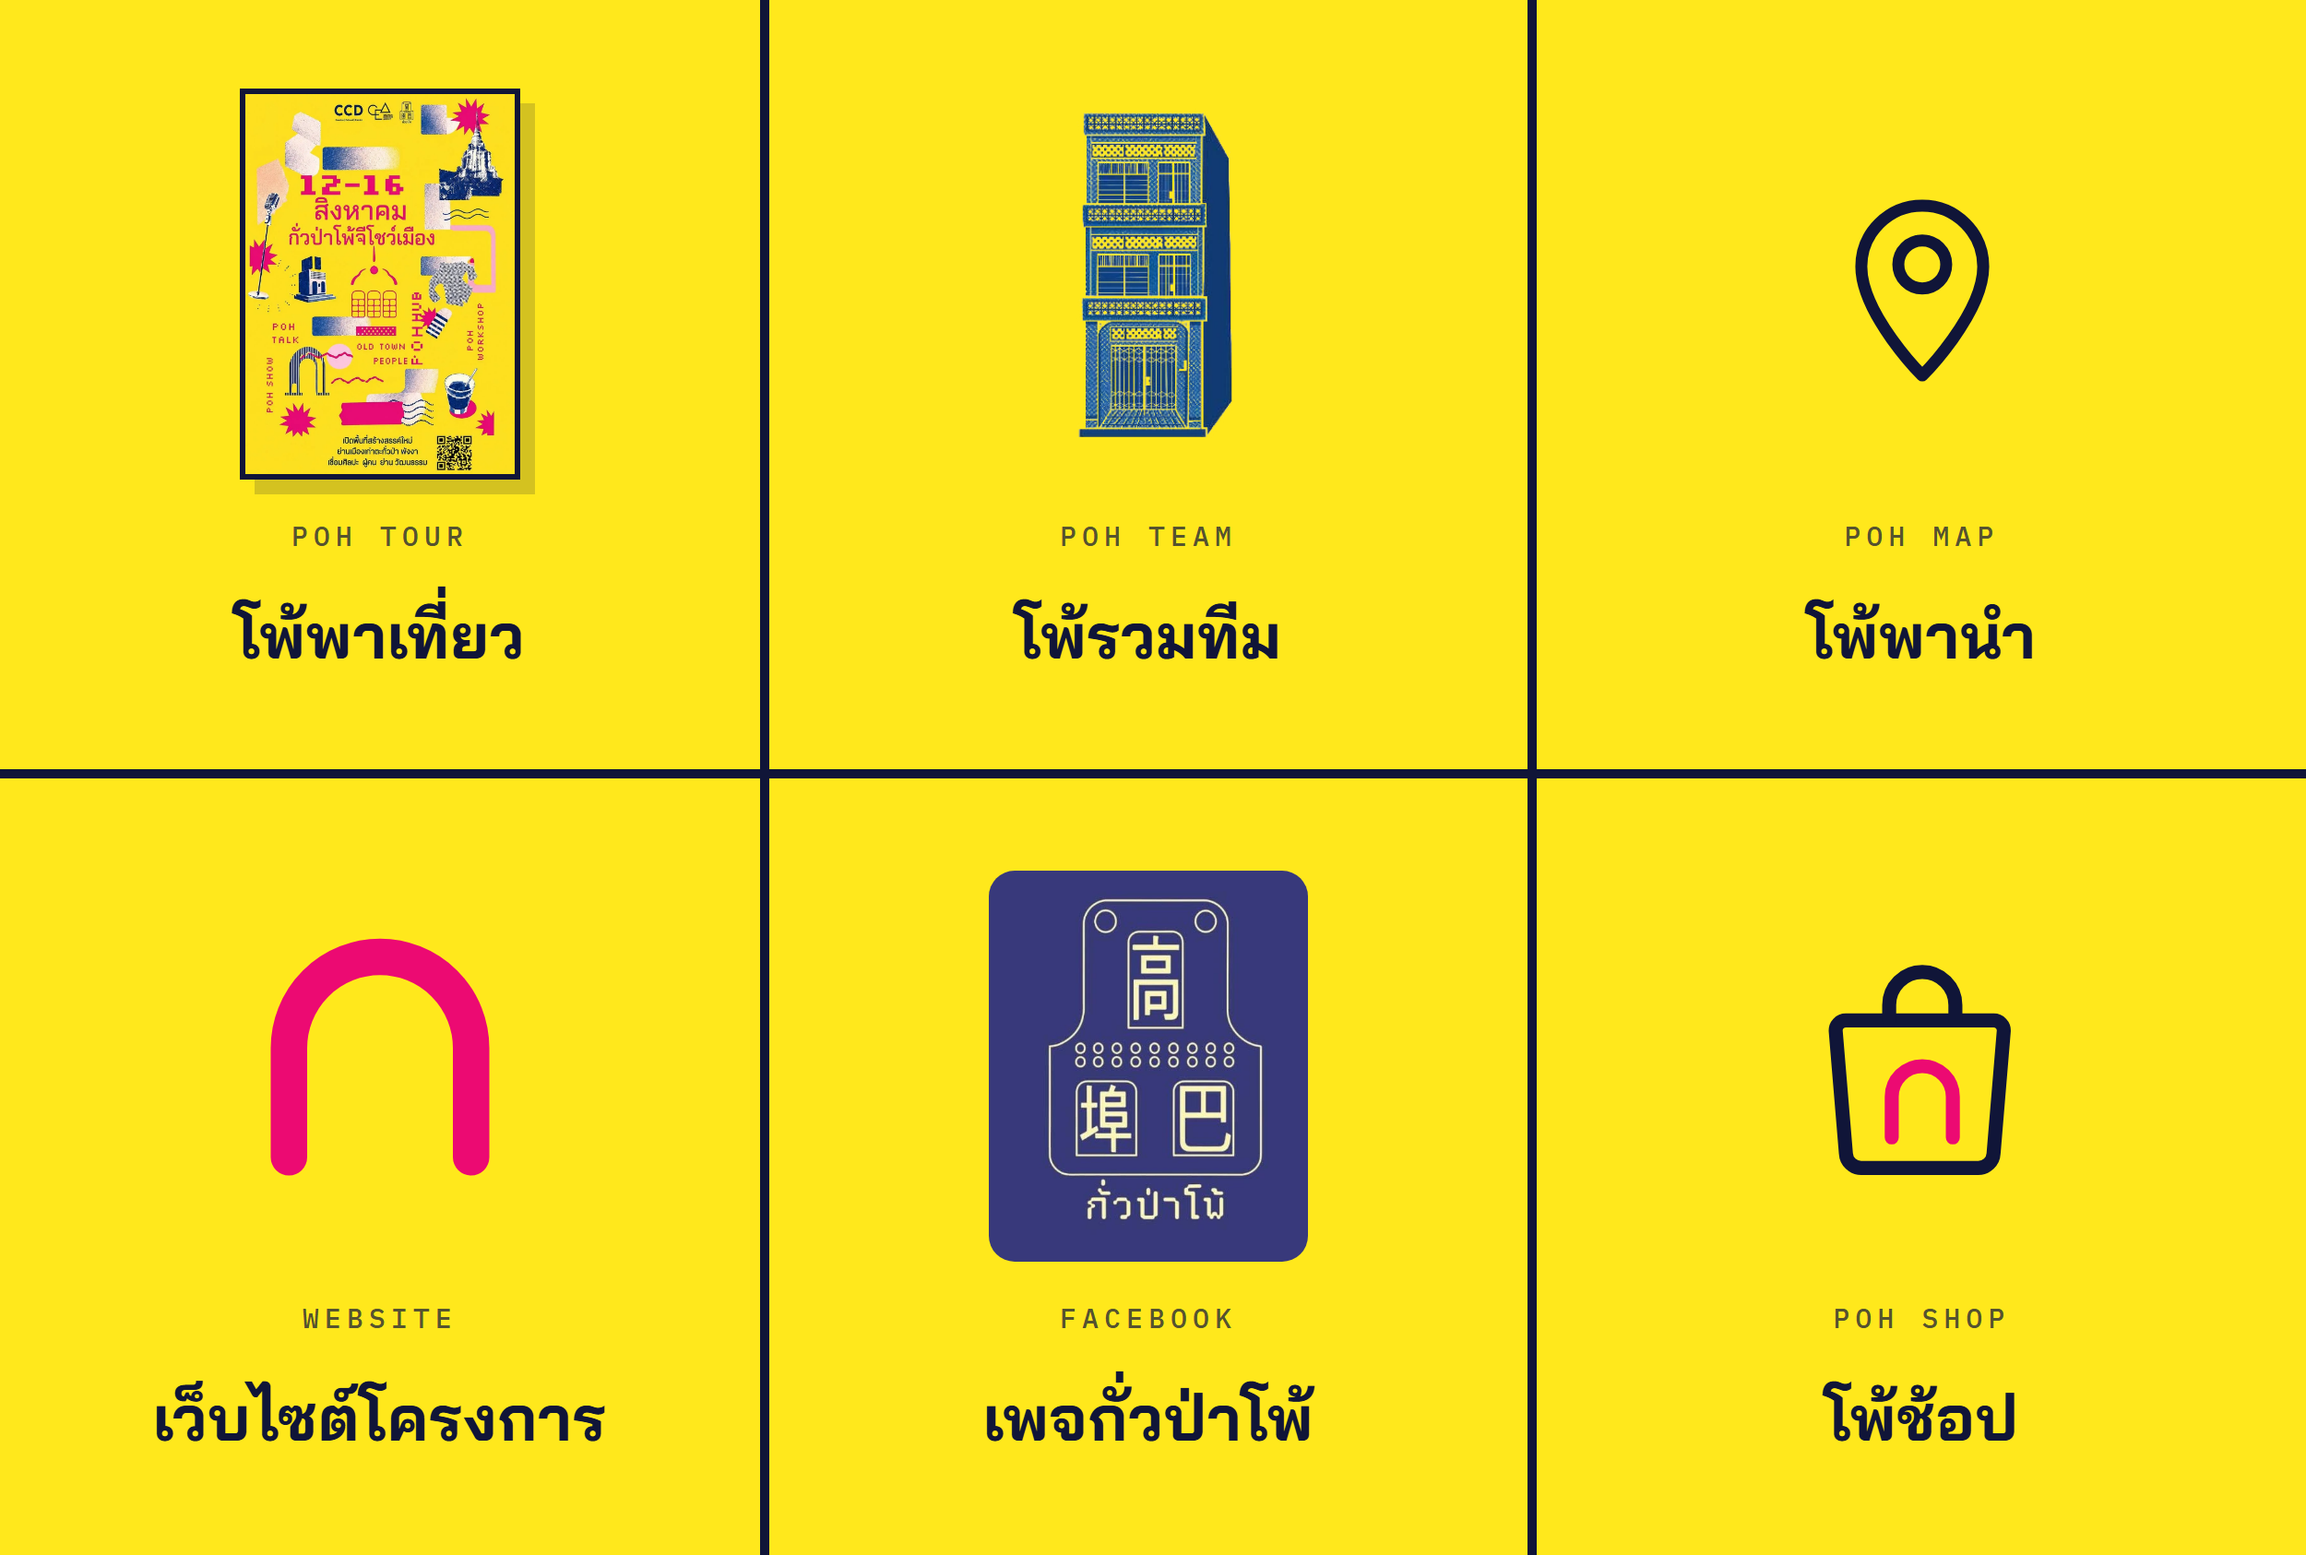
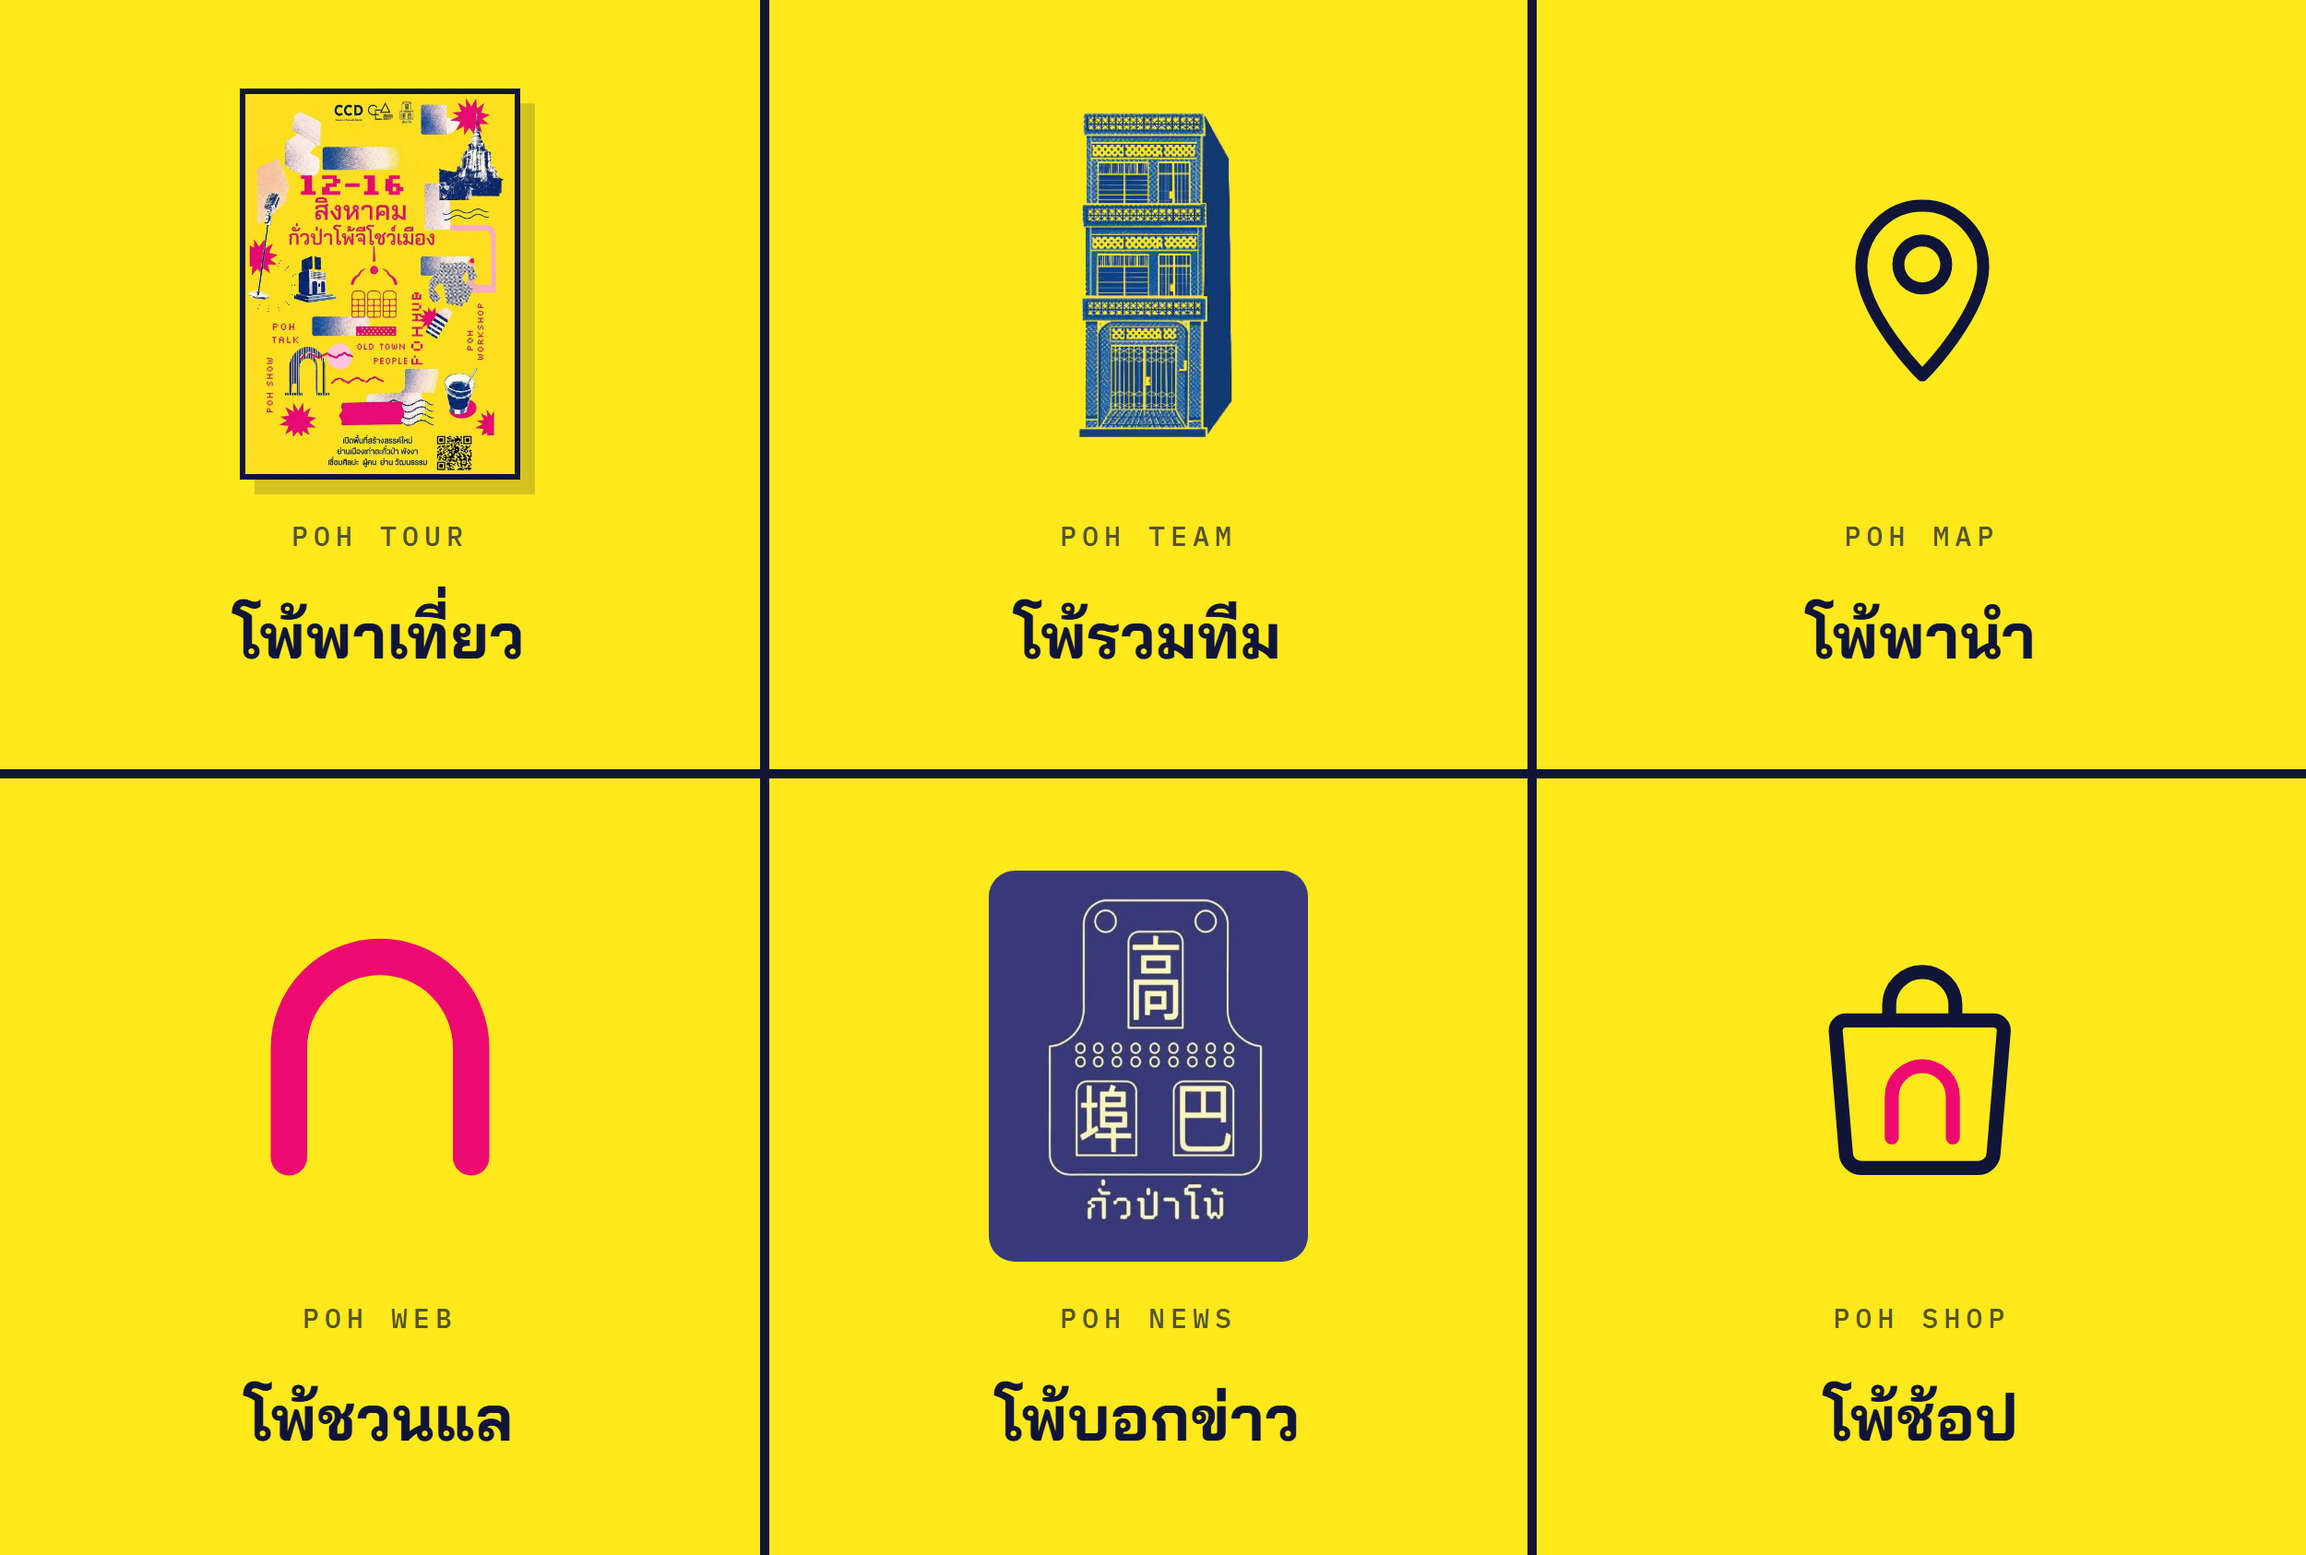
feat(contact): เพิ่มช่องทางไลน์ในส่วนติดต่อ + sameAs · ริชเมนูตั้งชื่อชุด โพ้ ครบ 6 ช่อง

diff --git a/richmenu/a-poster.html b/richmenu/a-poster.html
@@ -13,7 +13,7 @@
 <div class="cell" style="background:#FFE81C;color:#101538"><div class="art"><img class="poster" src="../images/poster-main.webp" alt=""></div><div><div class="en">POH TOUR</div><div class="th">โพ้พาเที่ยว</div></div></div>
 <div class="cell" style="background:#FFE81C;color:#101538"><div class="art"><img class="art-line" src="../images/line-78.webp" alt=""></div><div><div class="en">POH TEAM</div><div class="th">โพ้รวมทีม</div></div></div>
 <div class="cell" style="background:#FFE81C;color:#101538"><div class="art"><div class="ico"><svg viewBox="0 0 100 100"><path d="M50 92C50 92 78 64 78 42a28 28 0 1 0-56 0c0 22 28 50 28 50z" stroke="currentColor" fill="none" stroke-width="5.5" stroke-linecap="round" stroke-linejoin="round"/><circle cx="50" cy="41" r="11" stroke="currentColor" fill="none" stroke-width="5.5" stroke-linecap="round" stroke-linejoin="round"/></svg></div></div><div><div class="en">POH MAP</div><div class="th">โพ้พานำ</div></div></div>
-<div class="cell" style="background:#FFE81C;color:#101538"><div class="art"><div class="ico ico-mark"><svg viewBox="0 0 32 32"><path d="M6 26V14a10 10 0 0 1 20 0v12" fill="none" stroke="#EC0A72" stroke-width="4" stroke-linecap="round"/></svg></div></div><div><div class="en">WEBSITE</div><div class="th">เว็บไซต์โครงการ</div></div></div>
-<div class="cell" style="background:#FFE81C;color:#101538"><div class="art"><img class="art-tile" src="logo-poh.webp" alt=""></div><div><div class="en">FACEBOOK</div><div class="th">เพจกั่วป่าโพ้</div></div></div>
+<div class="cell" style="background:#FFE81C;color:#101538"><div class="art"><div class="ico ico-mark"><svg viewBox="0 0 32 32"><path d="M6 26V14a10 10 0 0 1 20 0v12" fill="none" stroke="#EC0A72" stroke-width="4" stroke-linecap="round"/></svg></div></div><div><div class="en">POH WEB</div><div class="th">โพ้ชวนแล</div></div></div>
+<div class="cell" style="background:#FFE81C;color:#101538"><div class="art"><img class="art-tile" src="logo-poh.webp" alt=""></div><div><div class="en">POH NEWS</div><div class="th">โพ้บอกข่าว</div></div></div>
 <div class="cell" style="background:#FFE81C;color:#101538"><div class="art"><div class="ico ico-shop"><svg viewBox="0 0 100 100"><path d="M22 32h56a4 4 0 0 1 4 4.3l-4 48a6 6 0 0 1-6 5.7H26a6 6 0 0 1-6-5.7l-4-48a4 4 0 0 1 4-4.3z" fill="none" stroke="currentColor" stroke-width="5.5" stroke-linejoin="round"/><path d="M37 32v-6a13 13 0 0 1 26 0v6" fill="none" stroke="currentColor" stroke-width="5.5" stroke-linecap="round"/><path d="M38 78V62a12 12 0 0 1 24 0v16" fill="none" stroke="#EC0A72" stroke-width="5.5" stroke-linecap="round"/></svg></div></div><div><div class="en">POH SHOP</div><div class="th">โพ้ช้อป</div></div></div>
 </body></html>

diff --git a/richmenu/b-blocks.html b/richmenu/b-blocks.html
@@ -10,7 +10,7 @@
 <div class="cell" style="background:#EC0A72;color:#FBF7EC"><div class="art"><img class="poster" src="../images/poster-main.webp" alt=""></div><div><div class="en">POH TOUR</div><div class="th">โพ้พาเที่ยว</div></div></div>
 <div class="cell" style="background:#FFE81C;color:#101538"><div class="art"><img class="art-line" src="../images/line-78.webp" alt=""></div><div><div class="en">POH TEAM</div><div class="th">โพ้รวมทีม</div></div></div>
 <div class="cell" style="background:#1E3FA8;color:#FBF7EC"><div class="art"><div class="ico"><svg viewBox="0 0 100 100"><path d="M50 92C50 92 78 64 78 42a28 28 0 1 0-56 0c0 22 28 50 28 50z" stroke="currentColor" fill="none" stroke-width="5.5" stroke-linecap="round" stroke-linejoin="round"/><circle cx="50" cy="41" r="11" stroke="currentColor" fill="none" stroke-width="5.5" stroke-linecap="round" stroke-linejoin="round"/></svg></div></div><div><div class="en">POH MAP</div><div class="th">โพ้พานำ</div></div></div>
-<div class="cell" style="background:#FBF7EC;color:#101538"><div class="art"><div class="ico ico-mark"><svg viewBox="0 0 32 32"><path d="M6 26V14a10 10 0 0 1 20 0v12" fill="none" stroke="#EC0A72" stroke-width="4" stroke-linecap="round"/></svg></div></div><div><div class="en">WEBSITE</div><div class="th">เว็บไซต์โครงการ</div></div></div>
-<div class="cell" style="background:#F4331F;color:#FBF7EC"><div class="art"><img class="art-tile" src="logo-poh.webp" alt=""></div><div><div class="en">FACEBOOK</div><div class="th">เพจกั่วป่าโพ้</div></div></div>
+<div class="cell" style="background:#FBF7EC;color:#101538"><div class="art"><div class="ico ico-mark"><svg viewBox="0 0 32 32"><path d="M6 26V14a10 10 0 0 1 20 0v12" fill="none" stroke="#EC0A72" stroke-width="4" stroke-linecap="round"/></svg></div></div><div><div class="en">POH WEB</div><div class="th">โพ้ชวนแล</div></div></div>
+<div class="cell" style="background:#F4331F;color:#FBF7EC"><div class="art"><img class="art-tile" src="logo-poh.webp" alt=""></div><div><div class="en">POH NEWS</div><div class="th">โพ้บอกข่าว</div></div></div>
 <div class="cell" style="background:#101538;color:#FFE81C"><div class="art"><div class="ico ico-shop"><svg viewBox="0 0 100 100"><path d="M22 32h56a4 4 0 0 1 4 4.3l-4 48a6 6 0 0 1-6 5.7H26a6 6 0 0 1-6-5.7l-4-48a4 4 0 0 1 4-4.3z" fill="none" stroke="currentColor" stroke-width="5.5" stroke-linejoin="round"/><path d="M37 32v-6a13 13 0 0 1 26 0v6" fill="none" stroke="currentColor" stroke-width="5.5" stroke-linecap="round"/><path d="M38 78V62a12 12 0 0 1 24 0v16" fill="none" stroke="#EC0A72" stroke-width="5.5" stroke-linecap="round"/></svg></div></div><div><div class="en">POH SHOP</div><div class="th">โพ้ช้อป</div></div></div>
 </body></html>

diff --git a/richmenu/c-paper.html b/richmenu/c-paper.html
@@ -19,7 +19,7 @@
 <div class="cell" style="background:#FBF7EC;color:#101538"><div class="art"><img class="poster" src="../images/poster-main.webp" alt=""></div><div><div class="en">POH TOUR</div><div class="th">โพ้พาเที่ยว</div></div></div>
 <div class="cell" style="background:#FBF7EC;color:#101538"><div class="art"><img class="art-line" src="../images/line-78.webp" alt=""></div><div><div class="en">POH TEAM</div><div class="th">โพ้รวมทีม</div></div></div>
 <div class="cell" style="background:#FBF7EC;color:#101538"><div class="art"><div class="ico"><svg viewBox="0 0 100 100"><path d="M50 92C50 92 78 64 78 42a28 28 0 1 0-56 0c0 22 28 50 28 50z" stroke="currentColor" fill="none" stroke-width="5.5" stroke-linecap="round" stroke-linejoin="round"/><circle cx="50" cy="41" r="11" stroke="currentColor" fill="none" stroke-width="5.5" stroke-linecap="round" stroke-linejoin="round"/></svg></div></div><div><div class="en">POH MAP</div><div class="th">โพ้พานำ</div></div></div>
-<div class="cell" style="background:#FBF7EC;color:#101538"><div class="art"><div class="ico ico-mark"><svg viewBox="0 0 32 32"><path d="M6 26V14a10 10 0 0 1 20 0v12" fill="none" stroke="#EC0A72" stroke-width="4" stroke-linecap="round"/></svg></div></div><div><div class="en">WEBSITE</div><div class="th">เว็บไซต์โครงการ</div></div></div>
-<div class="cell" style="background:#FBF7EC;color:#101538"><div class="art"><img class="art-tile" src="logo-poh.webp" alt=""></div><div><div class="en">FACEBOOK</div><div class="th">เพจกั่วป่าโพ้</div></div></div>
+<div class="cell" style="background:#FBF7EC;color:#101538"><div class="art"><div class="ico ico-mark"><svg viewBox="0 0 32 32"><path d="M6 26V14a10 10 0 0 1 20 0v12" fill="none" stroke="#EC0A72" stroke-width="4" stroke-linecap="round"/></svg></div></div><div><div class="en">POH WEB</div><div class="th">โพ้ชวนแล</div></div></div>
+<div class="cell" style="background:#FBF7EC;color:#101538"><div class="art"><img class="art-tile" src="logo-poh.webp" alt=""></div><div><div class="en">POH NEWS</div><div class="th">โพ้บอกข่าว</div></div></div>
 <div class="cell" style="background:#FBF7EC;color:#101538"><div class="art"><div class="ico ico-shop"><svg viewBox="0 0 100 100"><path d="M22 32h56a4 4 0 0 1 4 4.3l-4 48a6 6 0 0 1-6 5.7H26a6 6 0 0 1-6-5.7l-4-48a4 4 0 0 1 4-4.3z" fill="none" stroke="currentColor" stroke-width="5.5" stroke-linejoin="round"/><path d="M37 32v-6a13 13 0 0 1 26 0v6" fill="none" stroke="currentColor" stroke-width="5.5" stroke-linecap="round"/><path d="M38 78V62a12 12 0 0 1 24 0v16" fill="none" stroke="#EC0A72" stroke-width="5.5" stroke-linecap="round"/></svg></div></div><div><div class="en">POH SHOP</div><div class="th">โพ้ช้อป</div></div></div>
 </body></html>

diff --git a/index.html b/index.html
@@ -553,6 +553,7 @@ footer a{color:var(--yellow)}
       <li><span class="lbl">โทร</span><a href="tel:0618749198">061 874 9198</a></li>
       <li><span class="lbl">อีเมล</span><a href="mailto:kuapapoh@gmail.com">kuapapoh@gmail.com</a></li>
       <li><span class="lbl">เฟซบุ๊ก</span><a href="https://www.facebook.com/profile.php?id=61590430773715" target="_blank" rel="noopener">เพจ กั่วป่าโพ้ (เปิดแท็บใหม่)</a></li>
+      <li><span class="lbl">ไลน์</span><a href="https://line.me/R/ti/p/%40kuapapoh" target="_blank" rel="noopener">@kuapapoh · เพิ่มเพื่อนแล้วกดเมนูดูตารางงาน (เปิดแท็บใหม่)</a></li>
       <li><span class="lbl">ที่ตั้ง</span><a href="https://www.google.com/maps/search/?api=1&query=%E0%B8%96%E0%B8%99%E0%B8%99%E0%B8%A8%E0%B8%A3%E0%B8%B5%E0%B8%95%E0%B8%B0%E0%B8%81%E0%B8%B1%E0%B9%88%E0%B8%A7%E0%B8%9B%E0%B9%88%E0%B8%B2" target="_blank" rel="noopener">ย่านเมืองเก่าตะกั่วป่า จังหวัดพังงา</a></li>
     </ul>
   </div>
@@ -584,7 +585,8 @@ footer a{color:var(--yellow)}
 "location":{"@type":"Place","name":"ย่านเมืองเก่าตะกั่วป่า",
  "address":{"@type":"PostalAddress","addressLocality":"ตะกั่วป่า","addressRegion":"พังงา","addressCountry":"TH"}},
 "organizer":{"@type":"Organization","name":"กั่วป่าโพ้","telephone":"+66618749198",
- "url":"https://www.facebook.com/profile.php?id=61590430773715"},
+ "url":"https://www.facebook.com/profile.php?id=61590430773715",
+ "sameAs":["https://www.facebook.com/profile.php?id=61590430773715","https://line.me/R/ti/p/%40kuapapoh"]},
 "image":"https://kuapapoh.pages.dev/images/og-image.jpg"}
 </script>
 <script>

diff --git a/richmenu/deploy.py b/richmenu/deploy.py
@@ -32,8 +32,8 @@ ACTIONS = [
     ("โพ้พาเที่ยว", {"type": "uri", "uri": f"{SITE}/#schedule"}),
     ("โพ้รวมทีม", {"type": "uri", "uri": f"{SITE}/#houses"}),
     ("โพ้พานำ", {"type": "uri", "uri": MAPS}),
-    ("เว็บไซต์โครงการ", {"type": "uri", "uri": f"{SITE}/"}),
-    ("เพจกั่วป่าโพ้", {"type": "uri", "uri": FB}),
+    ("โพ้ชวนแล", {"type": "uri", "uri": f"{SITE}/"}),
+    ("โพ้บอกข่าว", {"type": "uri", "uri": FB}),
     # ยังไม่มีลิงก์ร้าน · ให้ส่งข้อความเข้าแชทไปก่อน แอดมินตอบเองใน OA Manager
     ("โพ้ช้อป", {"type": "message", "text": "สนใจโพ้ช้อป"}),
 ]

diff --git a/richmenu/gen.py b/richmenu/gen.py
@@ -58,8 +58,8 @@ CELLS = [
     ("__poster__", "POH TOUR", "โพ้พาเที่ยว"),
     ("__line78__", "POH TEAM", "โพ้รวมทีม"),
     ("map", "POH MAP", "โพ้พานำ"),
-    ("__mark__", "WEBSITE", "เว็บไซต์โครงการ"),
-    ("__logo__", "FACEBOOK", "เพจกั่วป่าโพ้"),
+    ("__mark__", "POH WEB", "โพ้ชวนแล"),
+    ("__logo__", "POH NEWS", "โพ้บอกข่าว"),
     ("__shop__", "POH SHOP", "โพ้ช้อป"),
 ]
 
